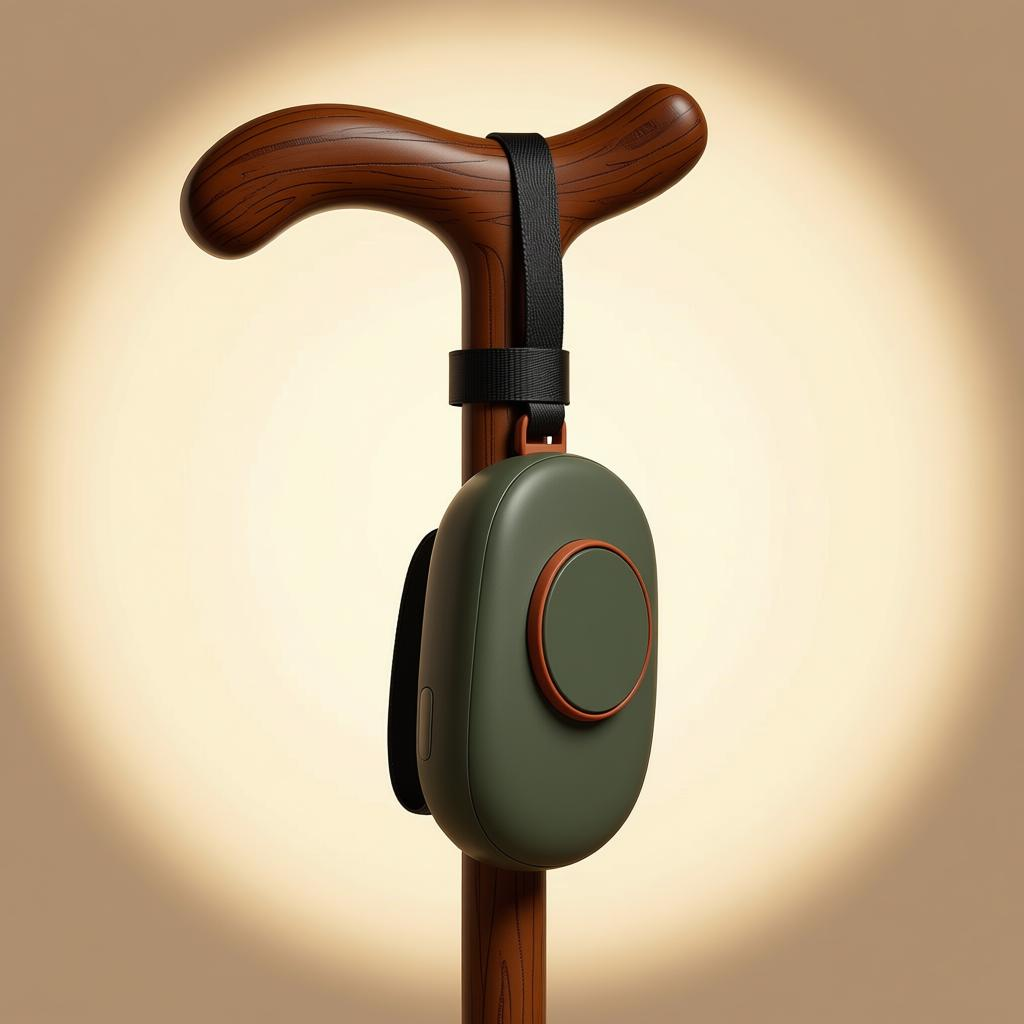
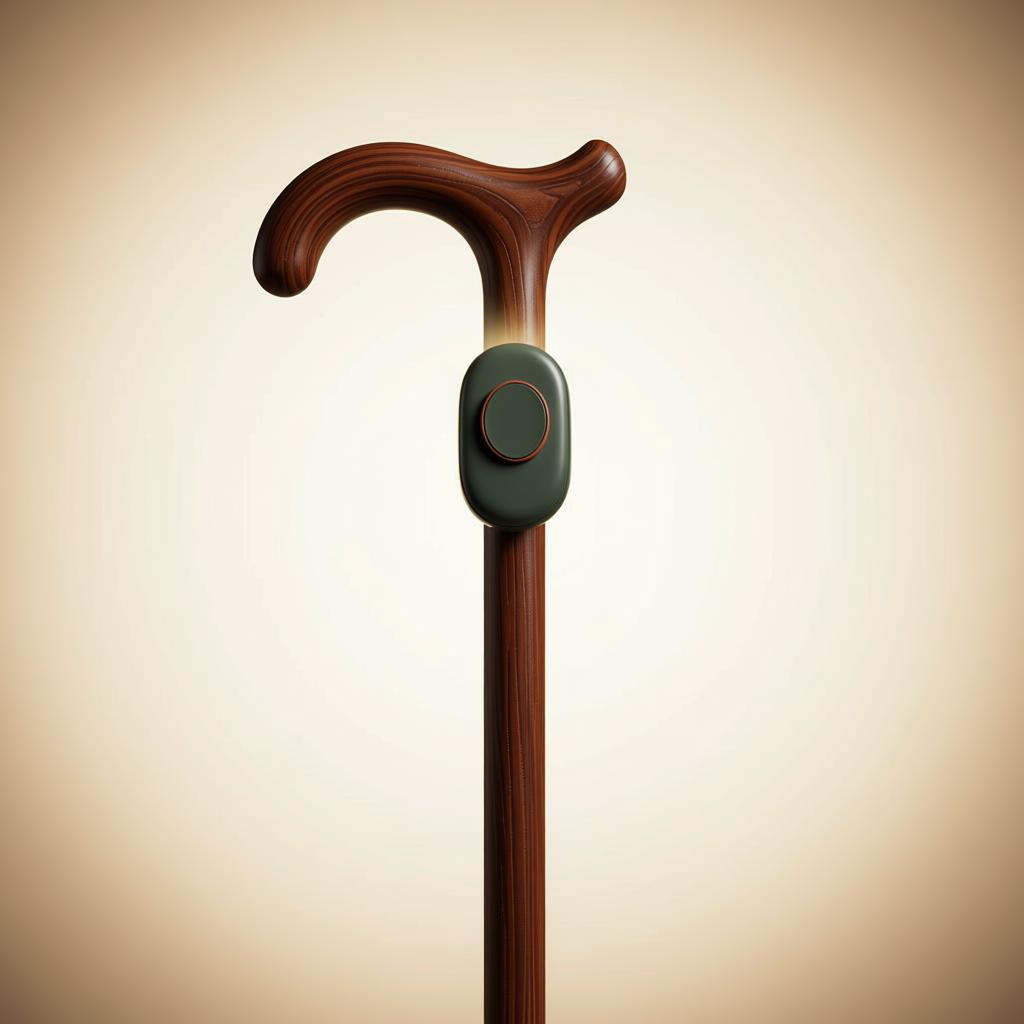
0466ecb8-09d6-4240-896f-282ee4dabdd9

diff --git a/worklog.md b/worklog.md
@@ -169,3 +169,21 @@ Stage Summary:
 - VLM (glm-4.6v) verified from raw image files: hero has "thin black cord/necklace strap attached… looping up like a necklace"; all 4 use-case images correctly show device on necklace / belt / cane / child backpack with warm beige background.
 - VLM verified from rendered-page screenshots: hero shows the cord; showcase has 4 cards each with a real product photo matching necklace/belt/cane/bag.
 - Kept hero-tracker-original.png as a backup; removed the gen script.
+
+---
+Task ID: 7
+Agent: main (Z.ai Code)
+Task: Fix the belt/cane/bag use-case images — tracker was too large and compositions were off. New specs: cane = small tracker fastened with a slim band on a vertical wooden cane; bag = small tracker clipped onto a bag's top handle; belt = small tracker on a brown leather belt worn around a person's waist.
+
+Work Log:
+- Wrote a one-off SDK script (scripts/fix-use-images.ts, since deleted) using images.generations.edit against the original hero image as reference, with explicit "keep it SMALL, about the size of a coin, not large" instructions plus per-use composition guidance.
+- Regenerated 3 images:
+  • use-cane.png — wooden cane vertical with curved handle, small tracker on slim band on the upper shaft.
+  • use-bag.png — fabric bag with visible top handle, small tracker clipped onto the handle.
+  • use-belt.png — person's waist/hip with a buckled brown leather belt, small tracker mounted on the belt (no face).
+- use-necklace.png and hero-tracker.png left unchanged (already correct).
+
+Stage Summary:
+- VLM verified each raw image: cane = "small (coin-sized accent)… slim strap/band… wooden cane vertical with handle at top"; bag = "small (coin-sized accent) clipped onto the bag handle… fabric bag with visible top handle"; belt = "small (coin-sized accent) mounted on the belt… person's waist/hip area wearing a brown leather belt… buckled".
+- VLM verified rendered showcase: all 4 cards show the tracker attached to the correct item (bag handle, cane, belt around waist, necklace cord) and all look small/subtle.
+- Lint clean; dev server GET / 200, no errors.